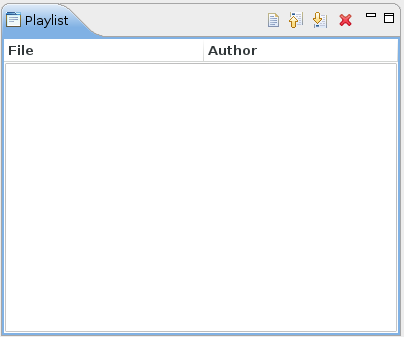
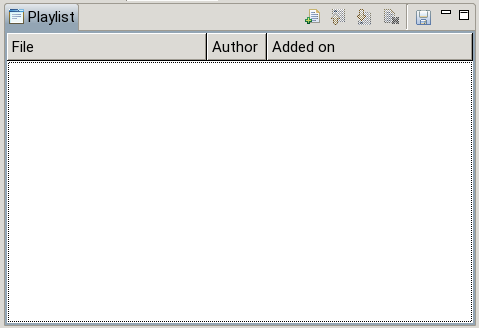
help for #2740

Changed region(s): [[0.0, 0.0, 1.0, 1.0], [0.2376, 0.0, 0.2673, 0.0305]]

diff --git a/bundles/de.ptb.epics.eve.viewer/help/content/concepts/engineview.html b/bundles/de.ptb.epics.eve.viewer/help/content/concepts/engineview.html
@@ -1,1 +1,1 @@
-<?xml version='1.0' encoding='utf-8' ?><!DOCTYPE html PUBLIC "-//W3C//DTD XHTML 1.0 Transitional//EN" "http://www.w3.org/TR/xhtml1/DTD/xhtml1-transitional.dtd"><html xmlns="http://www.w3.org/1999/xhtml"><head><meta http-equiv="Content-Type" content="text/html; charset=utf-8"/><title>engineview</title><link type="text/css" rel="stylesheet" href="PLUGINS_ROOT/de.ptb.epics.eve.viewer/help/css/viewer.css"/></head><body><h1 id="EngineView" class="eveTopic">Engine View</h1><p>The Engine View allows monitoring and control of scans running in an engine process.</p><p style="text-align: center;"><img class="eveImage" alt="engine view overview" title="engine view overview" border="0" src="../../img/concepts/engineview.png"/></p><p>The first button row (ENGINE) controls the engine process itself while the second row (SCAN) controls the scan currently loaded. Below them several other informations are shown. The following subsections contain a detailed description of them.</p><h2 id="ENGINEsection" class="eveTopic">ENGINE section</h2><p>There are four buttons whose function is described in the following table. Below them is a status label showing the host and port of the engine the Engine View is connected to.</p><table class="eveRefTable"><tr><th>Button </th><th>Description</th></tr><tr><th>start </th><td>Creates an engine process with the parameters (e.g. the port) specified in the preferences and connects to it. </td></tr><tr><th>kill </th><td>Sends a request to the engine to terminate itself. </td></tr><tr><th>connect </th><td>Connects to an existing engine process at <i>host</i>:<i>port</i> as specified in the preferences </td></tr><tr><th>disconnect </th><td>Disconnects from the currently connected engine process. </td></tr></table><h2 id="SCANsection" class="eveTopic">SCAN section</h2><p>Several buttons are available to influence the execution of a scan. Their function is described in the following table.</p><table class="eveRefTable"><tr><th>Button </th><th>Description</th></tr><tr><th>Play </th><td>Starts (or continues a paused) scan. </td></tr><tr><th>Pause </th><td>Pauses the scan. </td></tr><tr><th>Stop </th><td>stops the scan after finishing the current scan point. while pending positionings are ignored, post scan actions of the current scan module (and the parents if nested) are still executed. </td></tr><tr><th>Skip </th><td>finishes the current scan point, skips the remaining scan points of the current scan module, executes post scan actions and continues with the next scan module (if any) </td></tr><tr><th>Halt </th><td>Stops the scan and immediately stops all motor axes. </td></tr><tr><th>AutoPlay </th><td>if activated (toggle button) loaded scans (and iterations if repeat count &gt; 0) start automatically </td></tr></table><p>Besides the available buttons there are some status fields as well as an option to repeat scans and to comment described below.</p><h3 id="repeatcount" class="eveTopic">repeat count</h3><p>The <i>Repeat Count</i> displays the number of times the scan should be repeated. As long as the scan is not finished the repeat count is editable.</p><h3 id="loadedFile" class="eveTopic">loaded File</h3><p>Shows the path and name of the scan file currently loaded/executing.</p><h3 id="Filename" class="eveTopic">Filename</h3><p>Shows the path and name of the file the measuring data is written to.</p><h3 id="liveComment" class="eveTopic">live Comment</h3><p>Allows writing (multiple) comments to current data file. When pressing the button &#8222;Send to File&#8221; the entered text is send to the engine (which saves it in the file).</p><h2 id="ProgressBar" class="eveTopic">Progress Bar</h2><p>Shows the progress of the current scan by showing the absolute and relative ratio of finished positions to the number of total positions. The background color fill also represents the relative ratio.</p><h2 id="StatusTable" class="eveTopic">Status Table</h2><p>Shows the chains, scan modules and their states of the currently loaded scan. A remaining time as well as additional event infos (if any) are also shown.</p></body></html>
+<?xml version='1.0' encoding='utf-8' ?><!DOCTYPE html PUBLIC "-//W3C//DTD XHTML 1.0 Transitional//EN" "http://www.w3.org/TR/xhtml1/DTD/xhtml1-transitional.dtd"><html xmlns="http://www.w3.org/1999/xhtml"><head><meta http-equiv="Content-Type" content="text/html; charset=utf-8"/><title>engineview</title><link type="text/css" rel="stylesheet" href="PLUGINS_ROOT/de.ptb.epics.eve.viewer/help/css/viewer.css"/></head><body><h1 id="EngineView" class="eveTopic">Engine View</h1><p>The Engine View allows monitoring and control of scans running in an engine process.</p><p style="text-align: center;"><img class="eveImage" alt="engine view overview" title="engine view overview" border="0" src="../../img/concepts/engineview.png"/></p><p>The first button row (ENGINE) controls the engine process itself while the second row (SCAN) controls the scan currently loaded. Below them several other informations are shown. The following subsections contain a detailed description of them.</p><h2 id="ENGINEsection" class="eveTopic">ENGINE section</h2><p>There are four buttons whose function is described in the following table. Below them is a status label showing the host and port of the engine the Engine View is connected to.</p><table class="eveRefTable"><tr><th>Button</th><th>Description</th></tr><tr><th>start</th><td>Creates an engine process with the parameters (e.g. the port) specified in the preferences and connects to it.</td></tr><tr><th>kill</th><td>Sends a request to the engine to terminate itself.</td></tr><tr><th>connect</th><td>Connects to an existing engine process at <i>host</i>:<i>port</i> as specified in the preferences</td></tr><tr><th>disconnect</th><td>Disconnects from the currently connected engine process.</td></tr></table><h2 id="SCANsection" class="eveTopic">SCAN section</h2><p>Several buttons are available to influence the execution of a scan. Their function is described in the following table.</p><table class="eveRefTable"><tr><th>Button</th><th>Description</th></tr><tr><th>Play</th><td>Starts (or continues a paused) scan.</td></tr><tr><th>Pause</th><td>Pauses the scan.</td></tr><tr><th>Stop</th><td>stops the scan after finishing the current scan point. while pending positionings are ignored, post scan actions of the current scan module (and the parents if nested) are still executed.</td></tr><tr><th>Skip</th><td>finishes the current scan point, skips the remaining scan points of the current scan module, executes post scan actions and continues with the next scan module (if any)</td></tr><tr><th>Halt</th><td>Stops the scan and immediately stops all motor axes.</td></tr><tr><th>AutoPlay</th><td>if activated (toggle button) loaded scans (and iterations if repeat count &gt; 0) start automatically</td></tr></table><p>Besides the available buttons there are some status fields as well as an option to repeat scans and to comment described below.</p><h3 id="repeatcount" class="eveTopic">repeat count</h3><p>The <i>Repeat Count</i> displays the number of times the scan should be repeated. As long as the scan is not finished the repeat count is editable.</p><h3 id="loadedFile" class="eveTopic">loaded File</h3><p>Shows the path and name of the scan file currently loaded/executing.</p><h3 id="Filename" class="eveTopic">Filename</h3><p>Shows the path and name of the file the measuring data is written to.</p><h3 id="liveComment" class="eveTopic">live Comment</h3><p>Allows writing (multiple) comments to current data file. When pressing the button &#8222;Send to File&#8221; the entered text is send to the engine (which saves it in the file).</p><h2 id="ProgressBar" class="eveTopic">Progress Bar</h2><p>Shows the progress of the current scan by showing the absolute and relative ratio of finished positions to the number of total positions. The background color fill also represents the relative ratio.</p><h2 id="StatusTable" class="eveTopic">Status Table</h2><p>Shows the chains, scan modules and their states of the currently loaded scan. A remaining time as well as additional event infos (if any) are also shown.</p></body></html>

diff --git a/bundles/de.ptb.epics.eve.editor/help/content/concepts/chain.html b/bundles/de.ptb.epics.eve.editor/help/content/concepts/chain.html
@@ -1,1 +1,1 @@
-<?xml version='1.0' encoding='utf-8' ?><!DOCTYPE html PUBLIC "-//W3C//DTD XHTML 1.0 Transitional//EN" "http://www.w3.org/TR/xhtml1/DTD/xhtml1-transitional.dtd"><html xmlns="http://www.w3.org/1999/xhtml"><head><meta http-equiv="Content-Type" content="text/html; charset=utf-8"/><title>chain</title><link type="text/css" rel="stylesheet" href="PLUGINS_ROOT/de.ptb.epics.eve.editor/help/css/editor.css"/></head><body><h1 id="ChainView" class="eveTopic">Chain View</h1><p>In the Chain View you set the following chain properties.</p><h2 id="SaveOptions" class="eveTopic">Save Options</h2><p>In the <i>Save Options</i> item you make settings for properties in connection of saving the data file.</p><h3 id="FileFormat" class="eveTopic">File Format</h3><p>The <i>File Format</i> is a given format of the data file. You can choose between <i>ASCII</i>, <i>HDF5</i> and <i>Do not save</i>.</p><h3 id="Format" class="eveTopic">Format</h3><p>The <i>Filename</i> defines the name of the data file. You can use the macros shown in the table to build the filename.</p><table class="eveRefTable"><tr><th>Macro </th><th>Description</th></tr><tr><td>${WEEK} </td><td>calendar week</td></tr><tr><td>${YEAR} </td><td>year as yyyy</td></tr><tr><td>${YR} </td><td>year as yy</td></tr><tr><td>${MONTH} </td><td>month as MM</td></tr><tr><td>${MONTHSTR} </td><td>month as MMM (e.g., Jul)</td></tr><tr><td>${DAY} </td><td>day as dd</td></tr><tr><td>${DAYSTR} </td><td>day as ddd (e.g., Mon)</td></tr><tr><td>${DATE} </td><td>date as yyyyMMdd (e.g., 20111231)</td></tr><tr><td>${DATE-} </td><td>date as yyyy-MM-dd (e.g., 2011-12-31)</td></tr><tr><td>${TIME} </td><td>time as HHmmss</td></tr><tr><td>${TIME-} </td><td>time as HH-mm-ss</td></tr><tr><td>${PV:&lt;pvname&gt;} </td><td>replace with value of pvname</td></tr></table><h3 id="Filename" class="eveTopic">Filename</h3><p>This is the resulting <i>Filename</i> from the input above.</p><h3 id="SaveScanDescription" class="eveTopic">Save Scan-Description</h3><p>With <i>Save Scan-Description</i> you define, whether the scan description should be saved (at the same location as the data file).</p><h3 id="ConfirmSave" class="eveTopic">Confirm Save</h3><p>With <i>Confirm Save</i> you define, whether saving should be confirmed.</p><h3 id="AddAutoincrementingNumbertoFilename" class="eveTopic">Add Autoincrementing Number to Filename</h3><p>If <i>Add Autoincrementing Number to Filename</i> is true, a five digit number is appended to the filename. Starting at <i>x + 1</i> where <i>x</i> is the largest number found with the same filename prefix.</p><h2 id="Comment" class="eveTopic">Comment</h2><p>In the <i>Comment</i> Box you can write additional comments.</p><h2 id="Events" class="eveTopic">Events</h2><p>In the <i>Events</i> Tab you choose which Events you need in the chain. The description of events and which event types are available in the chain view you found <a href="events.html">here</a></p></body></html>
+<?xml version='1.0' encoding='utf-8' ?><!DOCTYPE html PUBLIC "-//W3C//DTD XHTML 1.0 Transitional//EN" "http://www.w3.org/TR/xhtml1/DTD/xhtml1-transitional.dtd"><html xmlns="http://www.w3.org/1999/xhtml"><head><meta http-equiv="Content-Type" content="text/html; charset=utf-8"/><title>chain</title><link type="text/css" rel="stylesheet" href="PLUGINS_ROOT/de.ptb.epics.eve.editor/help/css/editor.css"/></head><body><h1 id="ChainView" class="eveTopic">Chain View</h1><p>In the Chain View you set the following chain properties.</p><h2 id="SaveOptions" class="eveTopic">Save Options</h2><p>In the <i>Save Options</i> item you make settings for properties in connection of saving the data file.</p><h3 id="FileFormat" class="eveTopic">File Format</h3><p>The <i>File Format</i> is a given format of the data file. You can choose between <i>ASCII</i>, <i>HDF5</i> and <i>Do not save</i>.</p><h3 id="Format" class="eveTopic">Format</h3><p>The <i>Filename</i> defines the name of the data file. You can use the macros shown in the table to build the filename.</p><table class="eveRefTable"><tr><th>Macro</th><th>Description</th></tr><tr><td>${WEEK}</td><td>calendar week</td></tr><tr><td>${YEAR}</td><td>year as yyyy</td></tr><tr><td>${YR}</td><td>year as yy</td></tr><tr><td>${MONTH}</td><td>month as MM</td></tr><tr><td>${MONTHSTR}</td><td>month as MMM (e.g., Jul)</td></tr><tr><td>${DAY}</td><td>day as dd</td></tr><tr><td>${DAYSTR}</td><td>day as ddd (e.g., Mon)</td></tr><tr><td>${DATE}</td><td>date as yyyyMMdd (e.g., 20111231)</td></tr><tr><td>${DATE-}</td><td>date as yyyy-MM-dd (e.g., 2011-12-31)</td></tr><tr><td>${TIME}</td><td>time as HHmmss</td></tr><tr><td>${TIME-}</td><td>time as HH-mm-ss</td></tr><tr><td>${PV:&lt;pvname&gt;}</td><td>replace with value of pvname</td></tr></table><h3 id="Filename" class="eveTopic">Filename</h3><p>This is the resulting <i>Filename</i> from the input above.</p><h3 id="SaveScanDescription" class="eveTopic">Save Scan-Description</h3><p>With <i>Save Scan-Description</i> you define, whether the scan description should be saved (within the data file). The H5 file with embedded SCML can be opened by the editor and viewer. To extract the data see <a href="/help/topic/de.ptb.epics.eve.help/help/content/tasks/h5unpack.html">here</a>.</p><h3 id="ConfirmSave" class="eveTopic">Confirm Save</h3><p>With <i>Confirm Save</i> you define, whether saving should be confirmed.</p><h3 id="AddAutoincrementingNumbertoFilename" class="eveTopic">Add Autoincrementing Number to Filename</h3><p>If <i>Add Autoincrementing Number to Filename</i> is true, a five digit number is appended to the filename. Starting at <i>x + 1</i> where <i>x</i> is the largest number found with the same filename prefix.</p><h2 id="Comment" class="eveTopic">Comment</h2><p>In the <i>Comment</i> Box you can write additional comments.</p><h2 id="Events" class="eveTopic">Events</h2><p>In the <i>Events</i> Tab you choose which Events you need in the chain. The description of events and which event types are available in the chain view you found <a href="events.html">here</a></p></body></html>

diff --git a/bundles/de.ptb.epics.eve.viewer/help/content/concepts/playlistview.html b/bundles/de.ptb.epics.eve.viewer/help/content/concepts/playlistview.html
@@ -1,1 +1,1 @@
-<?xml version='1.0' encoding='utf-8' ?><!DOCTYPE html PUBLIC "-//W3C//DTD XHTML 1.0 Transitional//EN" "http://www.w3.org/TR/xhtml1/DTD/xhtml1-transitional.dtd"><html xmlns="http://www.w3.org/1999/xhtml"><head><meta http-equiv="Content-Type" content="text/html; charset=utf-8"/><title>playlistview</title><link type="text/css" rel="stylesheet" href="PLUGINS_ROOT/de.ptb.epics.eve.viewer/help/css/viewer.css"/></head><body><h1 id="PlaylistView" class="eveTopic">Playlist View</h1><p><img class="eveImage" alt="Playlist View" title="Playlist View" border="0" src="../../img/concepts/playlistview.png"/></p><p>The Playlist view is the waiting queue of the Engine. Scan descriptions build with the <a href="/help/topic/de.ptb.epics.eve.editor/help/content/overview.html">Editor</a> and send to the Engine are enqueued here. The Engine subsequently executes them in the order they arrived.</p><p>The toolbar commands also allow inserting a scan description from an existing file. The view shows the filename and author (user) who send the file. The order of the scan descriptions waiting in line can be modified with the arrow key buttons (the topmost is the head of the list). A scan description can also be deleted from the list.</p></body></html>
+<?xml version='1.0' encoding='utf-8' ?><!DOCTYPE html PUBLIC "-//W3C//DTD XHTML 1.0 Transitional//EN" "http://www.w3.org/TR/xhtml1/DTD/xhtml1-transitional.dtd"><html xmlns="http://www.w3.org/1999/xhtml"><head><meta http-equiv="Content-Type" content="text/html; charset=utf-8"/><title>playlistview</title><link type="text/css" rel="stylesheet" href="PLUGINS_ROOT/de.ptb.epics.eve.viewer/help/css/viewer.css"/></head><body><h1 id="PlaylistView" class="eveTopic">Playlist View</h1><p><img class="eveImage" alt="Playlist View" title="Playlist View" border="0" src="../../img/concepts/playlistview.png"/></p><p>The Playlist view shows the waiting queue of the Engine. The filename, author and the time the scan was added of each entry is displayed. The topmost entry is the head of the list, i.e. the one that will be loaded next into the engine.</p><p>Entries can be added in two different ways. Scan descriptions build with the <a href="/help/topic/de.ptb.epics.eve.editor/help/content/overview.html">Editor</a> and send to the Engine are enqueued here. The toolbar command allows inserting a scan description from an existing file to the end of the list. SCML files as well as SCML data embedded in H5 files can be added.</p><p>Additional toolbar commands allow deleting entries and modifying the order of the list (by moving items up or down).</p></body></html>

diff --git a/bundles/de.ptb.epics.eve.help/help/content/tasks/h5unpack.html b/bundles/de.ptb.epics.eve.help/help/content/tasks/h5unpack.html
@@ -1,0 +1,1 @@
+<?xml version='1.0' encoding='utf-8' ?><!DOCTYPE html PUBLIC "-//W3C//DTD XHTML 1.0 Transitional//EN" "http://www.w3.org/TR/xhtml1/DTD/xhtml1-transitional.dtd"><html xmlns="http://www.w3.org/1999/xhtml"><head><meta http-equiv="Content-Type" content="text/html; charset=utf-8"/><title>h5unpack</title><link type="text/css" rel="stylesheet" href="PLUGINS_ROOT/de.ptb.epics.eve.help/help/css/help.css"/></head><body><h1 id="top" class="eveTopic|">Extract embedded Scan Description</h1><p>Since version 1.28 the <a href="/help/topic/de.ptb.epics.eve.editor/help/content/concepts/chain.html">chain option</a> &#8222;Save Scan Description&#8221; embeds the SCML data in the HDF5 data file. The editor and viewer (add to playlist) are capable of loading these files directly. To manually view the file it has to be extracted.</p><h2 id="ExtractSCML" class="eveTopic">Extract SCML</h2><p>To extract SCML data from a HDF5 data file the following tool can be used:</p><p class="code"><code>h5unpackscml &lt;h5-file&gt; [&lt;scml-file&gt;]</code></p><p>This will extract embedded SCML data (if any) from the given h5 file to the given scml-file or to a file with similar ending but different suffix if none is given.</p><p>Example 1: <code>h5unpackscml /tmp/data.h5</code> extracts embedded SCML to <code>/tmp/data.scml</code>.</p><p>Example 2: <code>h5unpackscml /tmp/data.h5 /tmp/scan.scml</code> extracts embedded SCML to <code>/tmp/scan.scml</code>.</p><p class="backToTop"><a href="#top">back to top</a></p><h2 id="EmbedSCML" class="eveTopic">Embed SCML</h2><p>SCML can also be added to a HDF5 file (if it does not already contain another). To add SCML data to a HDF5 data file the following tool can be used:</p><p class="code"><code>h5packscml &lt;h5-file&gt; [&lt;scml-file&gt;]</code></p><p>This will embed the given SCML data to the given h5 file. If no scml file is given a SCML file with same prefix name is used.</p><p>Example 1: <code>h5packscml data.h5 scan.scml</code> embeds the SCML data in <code>scan.scml</code> into <code>data.h5</code>.</p><p>Example 2: <code>h5packscml data.h5</code> embeds SCML data in <code>data.scml</code> into <code>data.h5</code>.</p><p class="backToTop"><a href="#top">back to top</a></p></body></html>

diff --git a/bundles/de.ptb.epics.eve.help/help/content/tasks/eveCmd.html b/bundles/de.ptb.epics.eve.help/help/content/tasks/eveCmd.html
@@ -1,0 +1,1 @@
+<?xml version='1.0' encoding='utf-8' ?><!DOCTYPE html PUBLIC "-//W3C//DTD XHTML 1.0 Transitional//EN" "http://www.w3.org/TR/xhtml1/DTD/xhtml1-transitional.dtd"><html xmlns="http://www.w3.org/1999/xhtml"><head><meta http-equiv="Content-Type" content="text/html; charset=utf-8"/><title>eveCmd</title><link type="text/css" rel="stylesheet" href="PLUGINS_ROOT/de.ptb.epics.eve.help/help/css/help.css"/></head><body><h1 id="top" class="eveTopic|">Send Scan to Engine (without GUI)</h1><p>To send a scan directly to a running engine the following tool can be used:</p><p class="code"><code>eveCmd [-f &lt;xml-File&gt;] [-d debuglevel] [-h &lt;hostname&gt;] [-r &lt;repeatCount&gt;] [-p &lt;port&gt;]</code></p><p>where </p><ul><li><code>-f &lt;xml-file&gt;</code> is the SCML file that should be send</li><li><code>-d &lt;debuglevel&gt;</code> is the message threshold (0=none, 1=fatal, 2=error, 3=warning, 4=info, 5=debug), default: 3</li><li><code>-h &lt;hostname&gt;</code> is the host the engine is running on (default: localhost)</li><li><code>-r &lt;repeatcount&gt;</code> is the repeat count that should be set for the current scan</li><li><code>-p &lt;port&gt;</code> is the port of the engine process (default: 12345)</li></ul><p>Note that the file name is optional because it is possible to only set the repeat count.</p></body></html>

diff --git a/bundles/de.ptb.epics.eve.help/help/css/help.css b/bundles/de.ptb.epics.eve.help/help/css/help.css
@@ -44,6 +44,13 @@ p.formula {
 	padding: 4px;
 }
 
+.backToTop {
+	font-style: underline;
+	display: inline;
+	padding-left: 20px;
+	background: url(../img/misc/prev_nav.gif) no-repeat;
+}
+
 .eveUl {
 	margin: 10px 0;
 }
